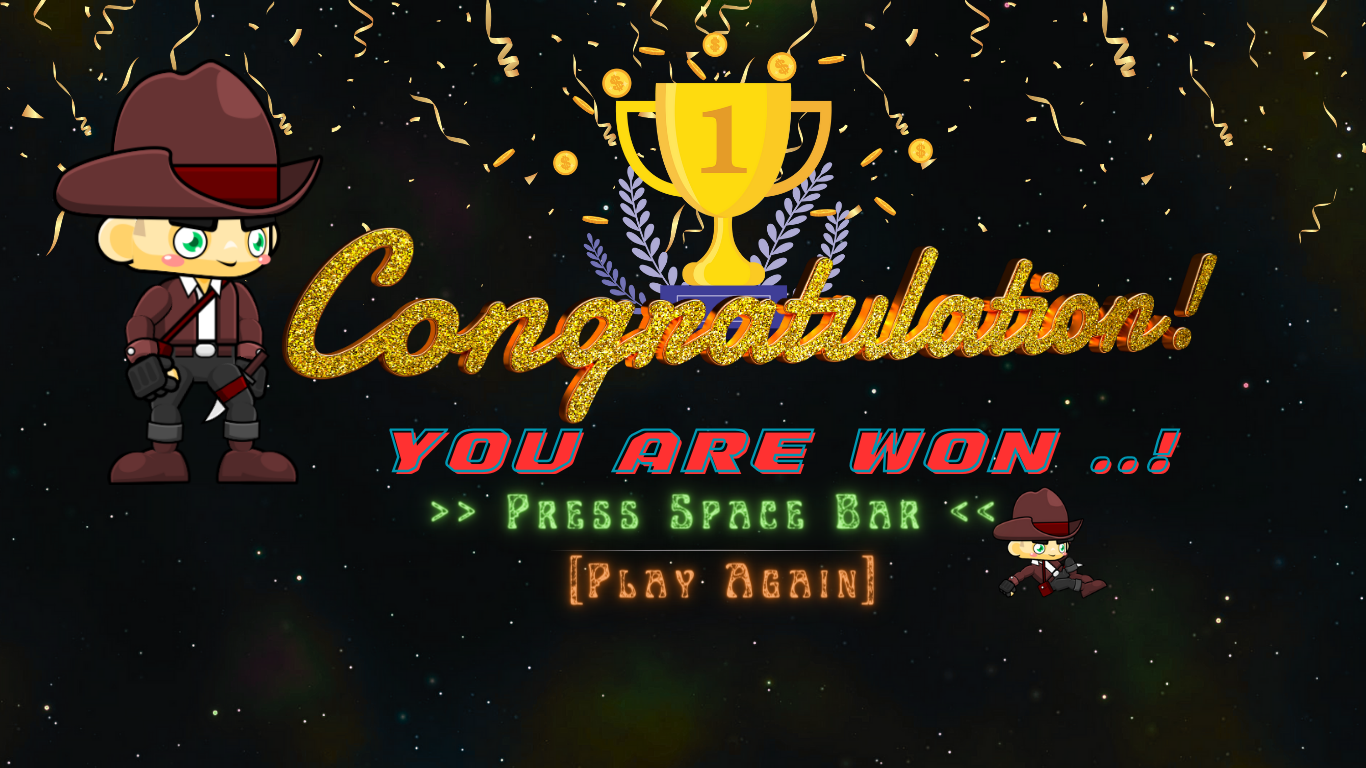
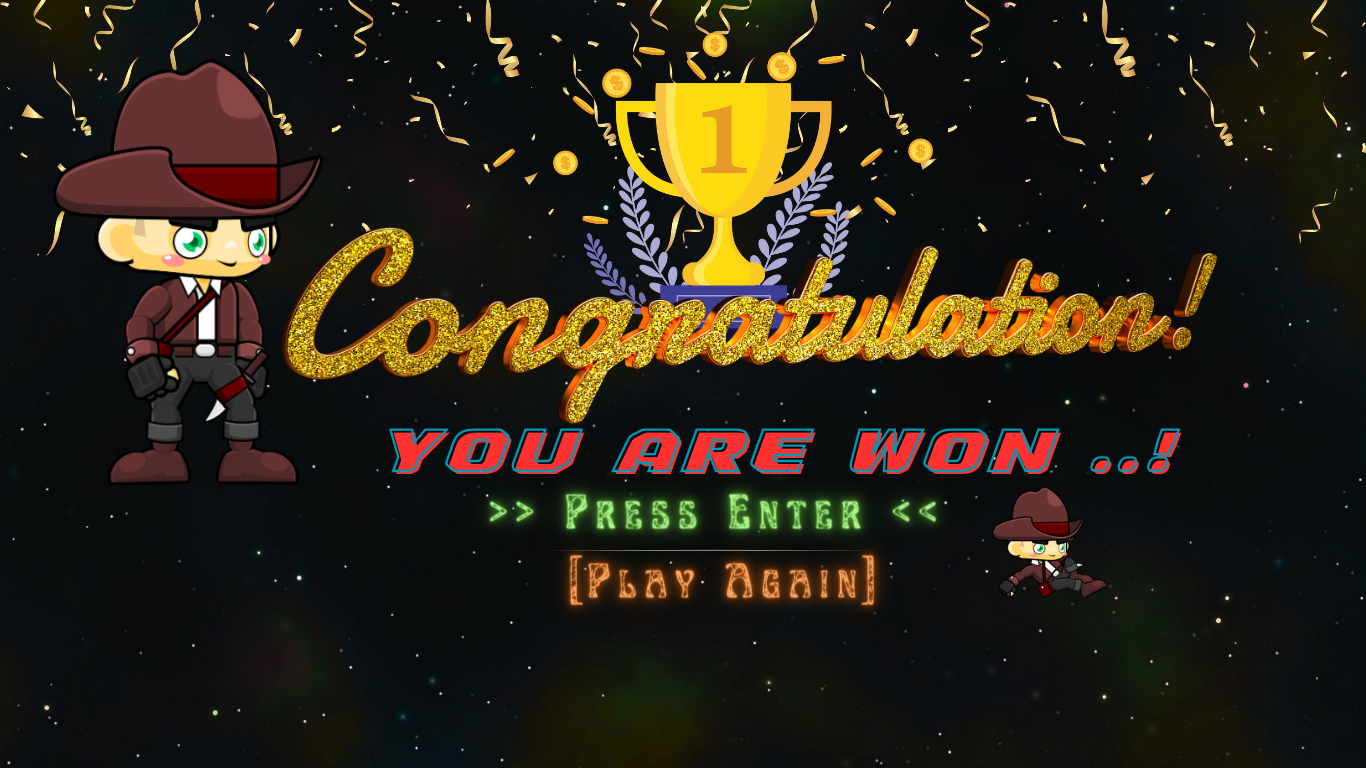
bugs fixed

Changed region(s): [[0.3075, 0.625, 0.7379, 0.7188]]

diff --git a/assets/js/Script4.js b/assets/js/Script4.js
@@ -147,7 +147,7 @@ function moveBackground() {
 
     document.getElementById("score").innerHTML=score;
     // Level complete got after 400 Scores.
-    if (score == 400){
+    if (score == 30){
         levelCompleted();
     }
 }
@@ -262,13 +262,13 @@ function levelCompleted(){
     document.getElementById("nextLevel").style.visibility = "visible";
     nextLevelMusic.play();
     document.addEventListener("keydown", function(event) {
-        if (event.keyCode === 32) {
+        if (event.keyCode === 13) {
 
             var btnNext = document.getElementById("btnNext");
             if (btnNext) {
 
                 // Navigate to the next HTML page
-                window.location.href = "index.html";
+                window.location.href = "..//index.html";
                 nextLevelMusic.pause();
             }
         }

diff --git a/assets/js/Script2.js b/assets/js/Script2.js
@@ -146,7 +146,7 @@ function moveBackground() {
 
     document.getElementById("score").innerHTML=score;
     // Level complete got after 350 Scores.
-    if (score == 350){
+    if (score == 30){
         levelCompleted();
     }
 }
@@ -261,7 +261,7 @@ function levelCompleted(){
     document.getElementById("nextLevel").style.visibility = "visible";
     nextLevelMusic.play();
     document.addEventListener("keydown", function(event) {
-        if (event.keyCode === 32) {
+        if (event.keyCode === 13) {
 
             var btnNext = document.getElementById("btnNext");
             if (btnNext) {

diff --git a/assets/js/Script3.js b/assets/js/Script3.js
@@ -147,7 +147,7 @@ function moveBackground() {
 
     document.getElementById("score").innerHTML=score;
     // Level complete got after 450 Scores.
-    if (score == 450){
+    if (score == 20){
         levelCompleted();
     }
 }
@@ -262,7 +262,7 @@ function levelCompleted(){
     document.getElementById("nextLevel").style.visibility = "visible";
     nextLevelMusic.play();
     document.addEventListener("keydown", function(event) {
-        if (event.keyCode === 32) {
+        if (event.keyCode === 13) {
 
             var btnNext = document.getElementById("btnNext");
             if (btnNext) {

diff --git a/assets/js/Script.js b/assets/js/Script.js
@@ -152,7 +152,7 @@ function moveBackground() {
 
     document.getElementById("score").innerHTML=score;
 // Level complete got after 310 Scores.
-    if (score == 310){
+    if (score == 10){
         levelCompleted();
     }
 }
@@ -277,7 +277,7 @@ function levelCompleted(){
     document.getElementById("nextLevel").style.visibility = "visible";
     nextLevelMusic.play();
     document.addEventListener("keydown", function(event) {
-        if (event.keyCode === 32) {
+        if (event.keyCode === 13) {
 
             var btnNext = document.getElementById("btnNext");
             if (btnNext) {
